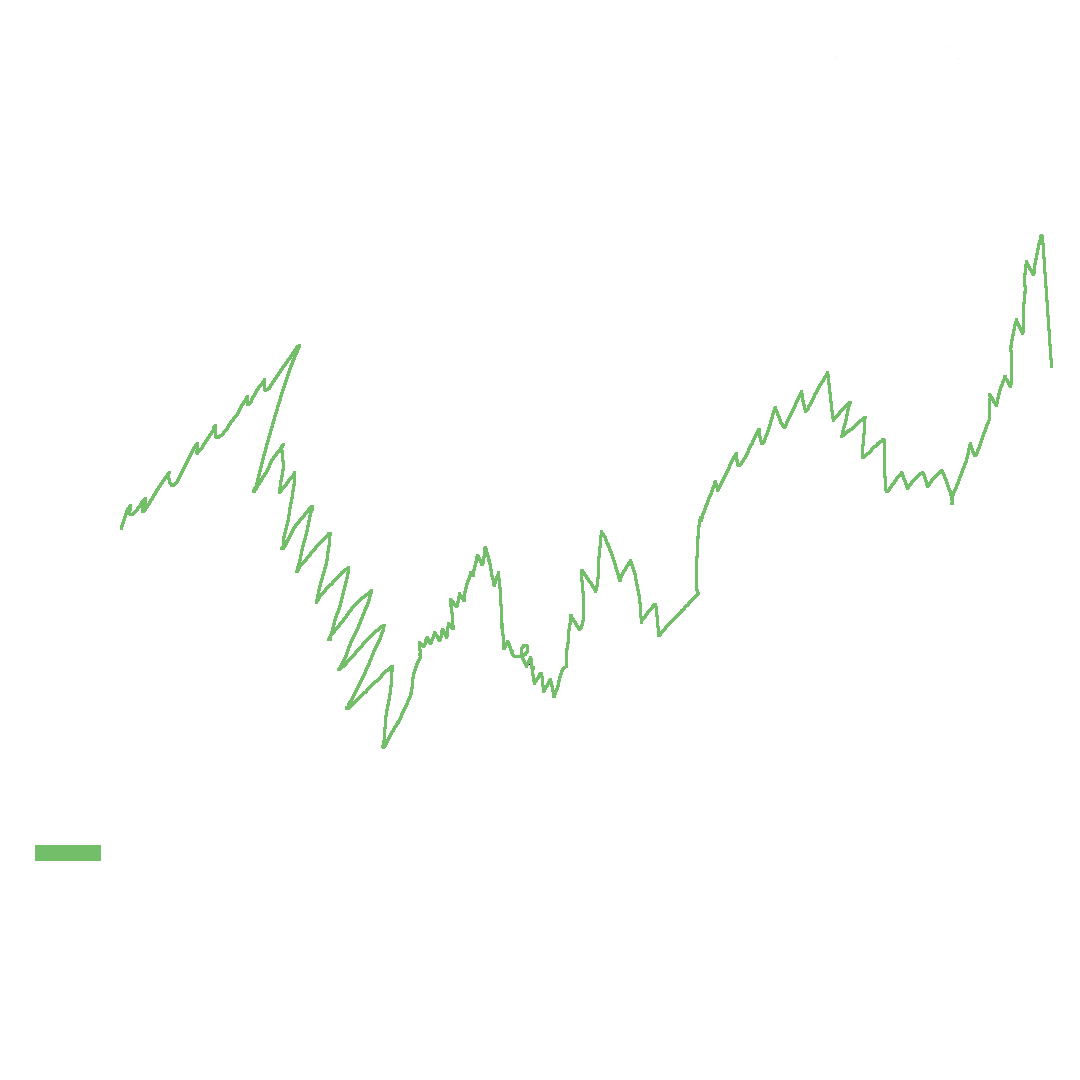
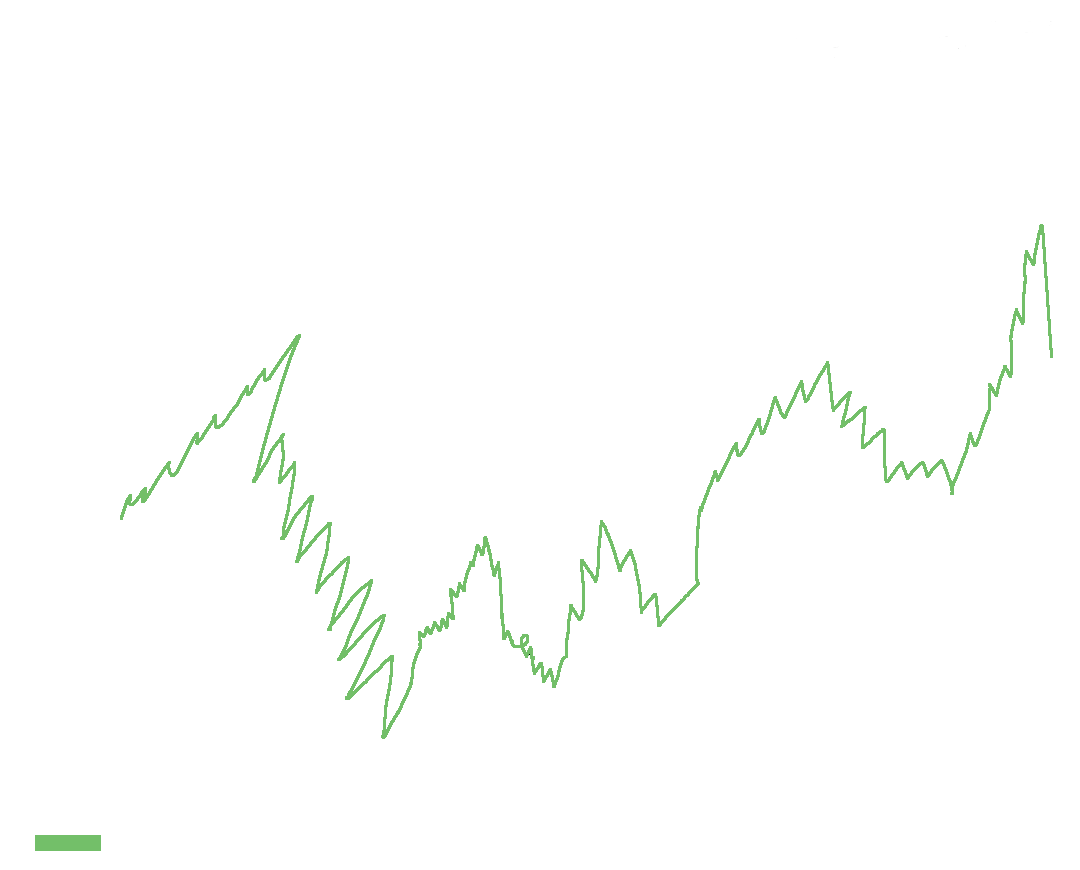
Ajout des boutons because Flemme de taper une nouvelle url

diff --git a/public/main-site/styles/style.css b/public/main-site/styles/style.css
@@ -62,11 +62,6 @@ body.dark-mode #logo {
     filter: drop-shadow(0 0 10px rgba(0, 212, 255, 0.3));
 }
 
-@keyframes shine {
-    to {
-        background-position: 200% center;
-    }
-}
 
 .search-bar {
     padding: 10px 20px;
@@ -154,6 +149,26 @@ input:checked + .slider:before {
     user-select: none;
 }
 
+.pages-switch-container{
+    position: absolute;
+    bottom: 20px;
+    right: 20px;
+}
+
+.pages-button{
+    background-color: #4285F4;
+    border-radius: 5px;
+    padding: 10px;
+    margin-left: 15px;
+    color:#fff;
+    border: none;
+}
+.pages-button:hover{
+    background-color: #1100ff;
+    color: #fff;
+
+}
+
 
 /*▓▓▓▓▓▓▓▓▓▓▓▓▓▓▓▓▓▓▓▓▓▓▓▓▓▓▓▓▓▓▓▓▓▓*\
 ▓▓▓▓▓▓▓    SHAKE SHAKE SHAKE   ▓▓▓▓▓▓▓
@@ -169,4 +184,14 @@ input:checked + .slider:before {
     transform: translate3d(0, 0, 0);
     backface-visibility: hidden;
     perspective: 1000px;
+}
+
+
+/*▓▓▓▓▓▓▓▓▓▓▓▓▓▓▓▓▓▓▓▓▓▓▓▓▓▓▓▓▓▓▓▓▓▓*\
+▓▓▓▓▓▓▓▓▓   Rise and Shine   ▓▓▓▓▓▓▓▓▓
+\*▓▓▓▓▓▓▓▓▓▓▓▓▓▓▓▓▓▓▓▓▓▓▓▓▓▓▓▓▓▓▓▓▓▓*/
+@keyframes shine {
+    to {
+        background-position: 200% center;
+    }
 }

diff --git a/public/main-site/scripts/script.js b/public/main-site/scripts/script.js
@@ -1,6 +1,8 @@
 document.addEventListener('DOMContentLoaded', () => {
     const themeToggle = document.getElementById('theme-toggle');
     const searchForm = document.getElementById('search-form');
+    const mailButton = document.getElementById('mailito');
+    const statsButton = document.getElementById('stats');
 
     if (themeToggle) {
         const savedTheme = localStorage.getItem('theme');
@@ -28,4 +30,19 @@ document.addEventListener('DOMContentLoaded', () => {
             window.location.href = 'https://www.youtube.com./watch?v=dQw4w9WgXcQ';
         });
     }
+    // --- stats.poule-parti.site
+    if (statsButton) {
+        statsButton.addEventListener('click', (event) => {
+            event.preventDefault();
+            window.location.href = 'https://stats.poule-parti.site';
+        });
+    }
+    // --- mail.poule-parti.site
+    if (mailButton) {
+        mailButton.addEventListener('click', (event) => {
+            event.preventDefault();
+            window.location.href = 'https://mail.poule-parti.site';
+        });
+    }
+
 });

diff --git a/public/main-site/index.html b/public/main-site/index.html
@@ -20,9 +20,13 @@
                 <input type="checkbox" id="theme-toggle" class="theme-toggle">
                 <span class="slider round">
             <span class="icon sun">☀</span>
-            <span class="icon moon">🌙</span>
+            <span class="icon moon">🌙 </span>
         </span>
             </label>
+        </div>
+        <div id="pages-switch-container" class="pages-switch-container">
+            <button id="mailito" class="pages-button">Poule Parti Mails</button>
+            <button id="stats" class="pages-button">Poule Parti Stats</button>
         </div>
     </div>
 </body>
